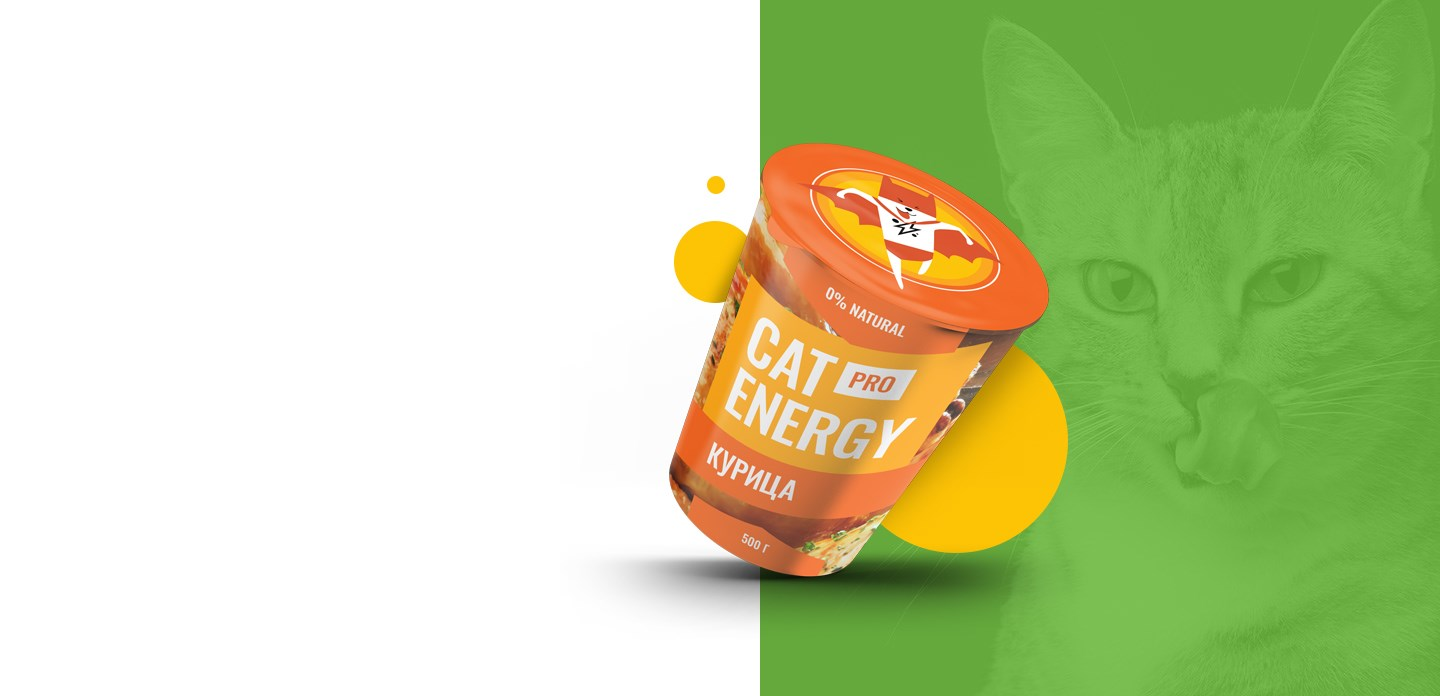
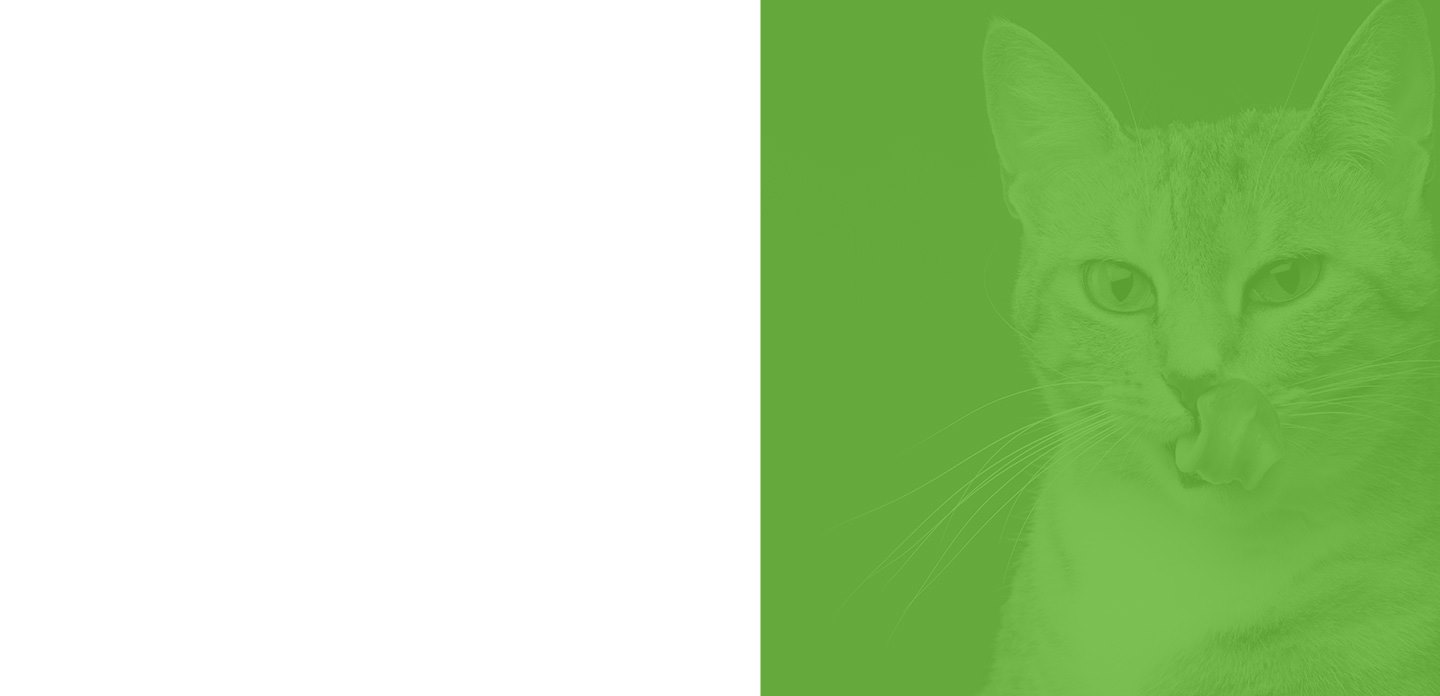
раскладка index готова

Changed region(s): [[0.4375, 0.181, 0.75, 0.9052]]

diff --git a/index.html b/index.html
@@ -27,13 +27,15 @@
         </ul>
       </nav>
     </header>
+    <section class="promo">
+        <div class="promo__wrapper">
+            <h2 class="promo__caption">Функциональное питание для котов</h2>
+            <p class="promo__slogan">Занялся собой? Займись котом!</p>
+            <a class="promo__button button" href="#">Подобрать Программу</a>
+        </div>
+    </section>
     <main class="page-main">
       <h1 class="visually-hidden">Магазин питания для котов Cat energy</h1>
-      <section class="promo">
-        <h2 class="promo__caption">Функциональное питание для котов</h2>
-        <p class="promo__slogan">Занялся собой? Займись котом!</p>
-        <a class="promo__button button" href="#">Подобрать Программу</a>
-      </section>
       <section class="targets">
           <div class="targets__item">
             <h3 class="targets__title targets__title--slim">Похудение</h3>
@@ -67,35 +69,43 @@
           </li>
         </ul>
       </section>
-      <section class="example">
-        <h2 class="example__caption">Живой пример</h2>
-        <p class="example__description">
-          Борис сбросил 5 кг за 2 месяца, просто заменив свой обычный корм на Cat Energy Slim. Отличный результат без изнуряющих тренировок! При этом он не менял своих привычек и по-прежнему спит по 16 часов в день.
-        </p>
-        <div class="example__list-wrapper">
-          <div class="example__result">
-            <span class="example__number">5 кг</span>
-            <span class="example__text">снижение веса</span>
-          </div>
-          <div class="example__result">
-            <span class="example__number">60 дней</span>
-            <span class="example__text">затрачено времени</span>
-          </div>
-        </div>
-        <h4 class="example__money-spent">затраты на питание: 15 000 руб.</h4>
-        <input type="checkbox" id="pic_sw" class="visually-hidden">
-        <div class="example__before">
-          <img src="../530049-cat-energy/source/img/before-mobile@1x.png" alt="Было">
-        </div>
-        <div class="example__after">
-          <img src="../530049-cat-energy/source/img/after-mobile@1x.png" alt="Стало">
-
-        </div>
-        <label for="pic_sw">было</label>
-        <label for="pic_sw">*</label>
-        <label for="pic_sw">стало</label>
-      </section>
     </main>
+    <section class="example">
+            <div class="example__caption-wrap">
+                <h2 class="example__caption">Живой пример</h2>
+            </div>
+            <div class="example__wrapper">
+              <div class="example__text-wrap">
+                  <p class="example__description">
+                  Борис сбросил 5 кг за 2 месяца, просто заменив свой обычный корм на Cat Energy Slim. Отличный результат без изнуряющих тренировок! При этом он не менял своих привычек и по-прежнему спит по 16 часов в день.
+                  </p>
+                <div class="example__list-wrapper">
+                      <div class="example__result">
+                        <span class="example__number">5 кг</span>
+                        <span class="example__text">снижение веса</span>
+                      </div>
+                      <div class="example__result">
+                        <span class="example__number">60 дней</span>
+                        <span class="example__text">затрачено времени</span>
+                      </div>
+                <h4 class="example__money-spent">затраты на питание: 15 000 руб.</h4>
+                </div>
+              </div>      
+              <div class="example__cat-wrap">
+                <input type="checkbox" id="pic_sw" class="visually-hidden">
+                <div class="example__before">
+                  <img src="../530049-cat-energy/source/img/before-mobile@1x.png" alt="Было">
+                </div>
+                <div class="example__after">
+                  <img src="../530049-cat-energy/source/img/after-mobile@1x.png" alt="Стало">
+
+                </div>
+                <label for="pic_sw">было</label>
+                <label for="pic_sw">*</label>
+                <label for="pic_sw">стало</label>
+            </div>
+          </div>
+      </section>
     <footer class="page-footer">
       <section class="partnership">
         <div class="partnership__header">

diff --git a/source/less/blocks/example.less b/source/less/blocks/example.less
@@ -1,37 +1,98 @@
 .example {
     background-color: @bg-grey;
-    padding: 0 20px;
+    @media (min-width: @tablet-width) {
+        background-color:white;
+    }
+    @media (min-width: @desktop-width) {
+        background-color:white;
+    }
 }
 
+.example__caption-wrap {
+    background-color:@bg-grey;
+    @media (min-width: @tablet-width) {
+        background-color:white;
+    }
+}
 
+.example__wrapper {
+    background-color:@bg-grey;
+    width: 280px;
+    .ma;
+    @media (min-width: @tablet-width) {
+        width:708px;
+    }
+    @media (min-width: @desktop-width) {
+        width:1220px;
+        display: flex;
+        justify-content: space-between;
+    }
+}
+
+.example__caption {
+    display: block;
+    width: 280px;
+    .ma;
+    @media (min-width: @tablet-width) {
+        width:708px;
+    }
+    @media (min-width: @desktop-width) {
+        width:1220px;
+    }
+    
+}
 .example__list-wrapper{
     display: flex;
+    flex-wrap: wrap;
     justify-content: space-between;
+    @media (min-width: @tablet-width) {
+        background-color: white;
+    }
+    @media (min-width: @desktop-width) {
+        background-color: @bg-grey;
+    }
 }
-.example__result{
-  display: block;
-  width:124px;
-  height:56px;
-  border:1px solid #cdcdcd;
-  border-radius: 2px;
-  position:relative;
+.example__text-wrap{
+    @media (min-width: @tablet-width) {
+        background-color: white;
+    }
+    @media (min-width: @desktop-width) {
+        background-color: @bg-grey;
+        width:433px;
+    }
+}
+.example__cat-wrap{
+    @media (min-width: @desktop-width) {
+        
+        width:610px;
+    }
+}
+.example__result {
+   display: block;
+   width:124px;
+   height:56px;
+   border:1px solid #cdcdcd;
+   border-radius: 2px;
+   position:relative;
 }
 .example__text{
-    display: block;
-    position:absolute;
-    top:40px;
-    right:20px;
-    background-color: @bg-grey;
-    z-index: 2;
-    width:88px;
-    height:25px;
-}
-.example__money-spent{
-    display: block;
-    margin:0 auto;
-    padding-top:20px;
+     display: block;
+     position:absolute;
+     top:40px;
+     right:20px;
+     background-color: @bg-grey;
+     z-index: 2;
+     width:88px;
+     height:25px;
+     @media (min-width: @tablet-width) {
+       background-color:white;
+    }
+    @media (min-width: @tablet-width) {
+       background-color:@bg-grey;
+    }
 }
 .example__before{ display: block;}
 .example__after { display:none;}
 #pic_sw:checked ~ .example__before{ display: none;}
 #pic_sw:checked ~ .example__after{ display: block;}
+

diff --git a/source/less/blocks/promo.less b/source/less/blocks/promo.less
@@ -1,22 +1,54 @@
 .promo {
-    width:320px;
-    min-height: 502px;
-    background-image: url(../img/index-mobile.jpg);
+    width: 100%;
+    background:rgb(104, 172, 63);
+    @media (min-width: @tablet-width) {
+        background:#ffffff;
+    }
+    @media (min-width: @desktop-width) {
+        background: linear-gradient(to right,rgb(255, 255, 255) 0%,rgb(255, 255, 255) 50%,rgb(104, 172, 63) 49.9%,rgb(104, 172, 63) 100%);
+    }
+}
+.promo__wrapper {
+    margin: 0 auto;
+    width:280px;
+    min-height: 305px;
+    background-image: url(../img/index-background-mobile.jpg);
     background-repeat: no-repeat;
-    background-size:auto;
+    margin-bottom: 197px;
+    position:relative;
     @media (min-width: @tablet-width) {
         width:708px;
-        padding: 0 30px;
-        min-height: 840px;
-        background-image: url(../img/index-tablet.jpg);
-        background-repeat: no-repeat;
-        background-size:auto;
-        background-position: bottom;
+        min-height: 700px;
+        background-image: none;
+        
+        margin-bottom:0px;
     }
     @media (min-width: @desktop-width) {
         width:1440px;
         background-image: url(../img/index-desktop.jpg);
-        background-size:contain;
-        background-position:100% 0;
+        background-position:50% 0;
+         min-height: 696px;
+        
+    }
+}
+.promo__wrapper::before{
+    position: absolute;
+    content: "";
+    width: 280px;
+    height: 271px;
+    background-image: url(../img/index-can-mobile.png);
+    margin-top: 200px;
+    @media (min-width: @tablet-width) {
+        background-image: url(../img/index-can-tablet.jpg);
+        width: 708px;
+        height: 609px;
+        margin-top: 50px;
+    }
+    @media (min-width: @desktop-width) {
+        background-image: url(../img/index-can-desktop.png);
+        width: 552px;
+        height: 499px;
+        margin-top:150px;
+        margin-left:550px;
     }
 }

diff --git a/source/less/blocks/page-header.less b/source/less/blocks/page-header.less
@@ -1,29 +1,27 @@
 .page-header {
-    width: 280px;
+    width: 320px;
     margin: 0 auto;
     @media (min-width: @tablet-width) {
-        width: 708px;
+        width: 768px;
         display: flex;
         justify-content: space-between;
   }
 
     @media (min-width:@desktop-width) {
     width: 1220px;
-    margin: 0 auto;
-    display: flex;
-    justify-content: space-between;
   }
 }
 
 .page-header__wrapper{
     display: flex;
     justify-content: space-between;
+    padding: 0 20px;
 
     @media (min-width: @tablet-width) {
-        min-width: 192px;
+       
     }
 
     @media (min-width: @desktop-width) {
-        min-width: 245px;
+        
     }
 }

diff --git a/source/less/mixins.less b/source/less/mixins.less
@@ -2,3 +2,6 @@
     margin:0;
     padding: 0;
 }
+.ma {
+    margin:0 auto;
+}
